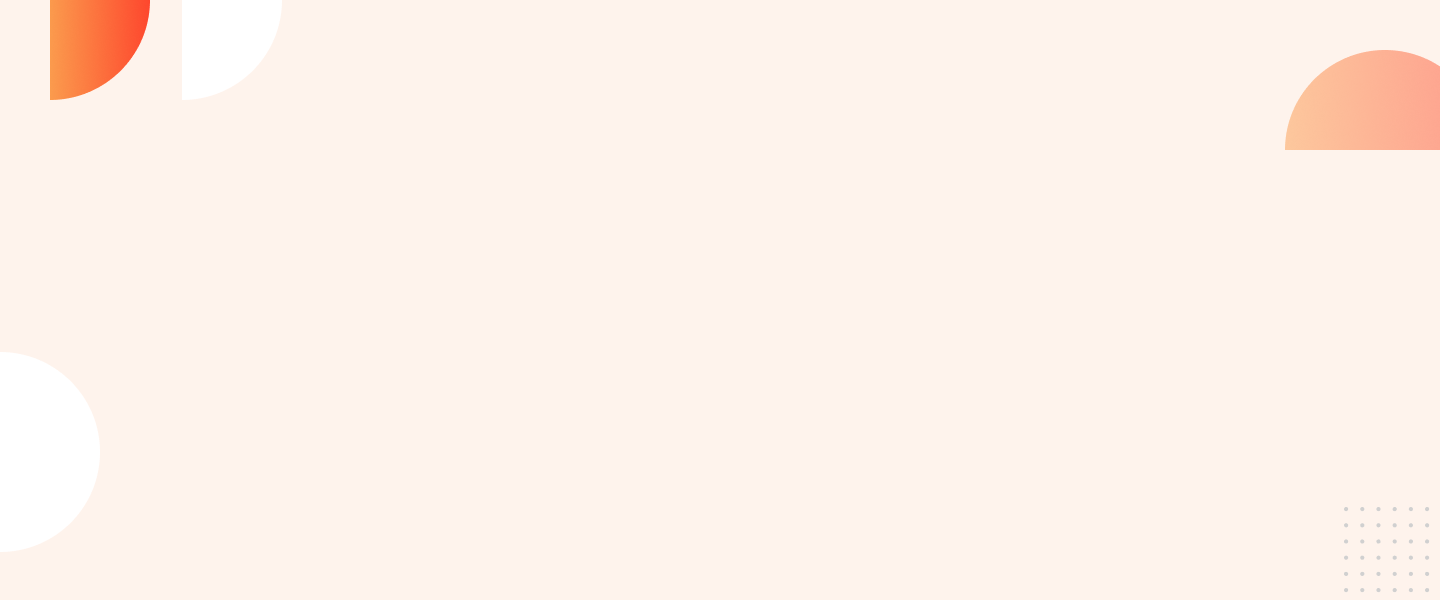
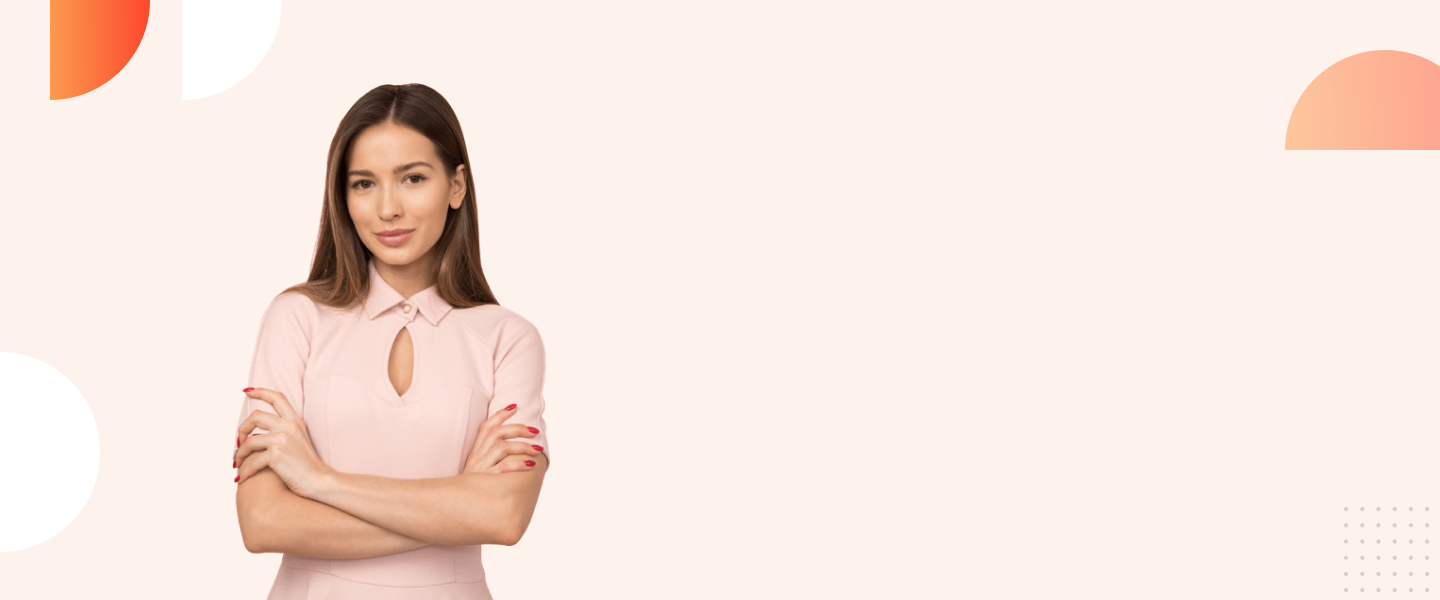
background image added

Changed region(s): [[0.1562, 0.12, 0.4062, 1.0]]

diff --git a/index.html b/index.html
@@ -25,6 +25,18 @@
             <img class="sec1-image" src="images/female/Group 8425.png" alt="">
         </div>
     </section>
+
+    <div class="sec2-img">
+        <div class="sec2-writing">
+            <h2>About Me</h2>
+            <p>Cooking is the best hobby to have, because it can be very useful in life. Cooking is my hobby and has
+                been for several years. I was about five years old, when I started learning how to cook.
+                Cooking is something that I inherited from my grandmother; my grandmother was a professional chef and
+                owned her own restaurant, where I learned how to cook.</p>
+            <br><br><br><br>
+            <a class="link-button" href="">Contact me</a>
+        </div>
+
 </body>
 
 </html>

diff --git a/style.css b/style.css
@@ -1,9 +1,14 @@
 body{
     font-family: 'Poppins', sans-serif;
+    margin: 0;
 }
 h1{
     font-size: 85px;
     color: #545454;
+}
+h2{
+    font-size: 50px;
+    color: dimgray;
 }
 h3{
     color: gray;
@@ -21,6 +26,7 @@ h3{
 }
 .flexible-container{
     display: flex;
+    margin-bottom: 100px;
 }
 .half-width{
     width: 50%;
@@ -35,4 +41,16 @@ h3{
 }
 .orange-color{
     color: orange;
+}
+.sec2-img{
+    background-image: url(images/shapes/7.png);
+    background-repeat: no-repeat;
+    background-size: cover;
+    height: 800px;
+    margin-bottom: 100px;
+}
+.sec2-writing{
+    padding-left: 50%;
+    padding-right: 15%;
+    padding-top: 10%;
 }
